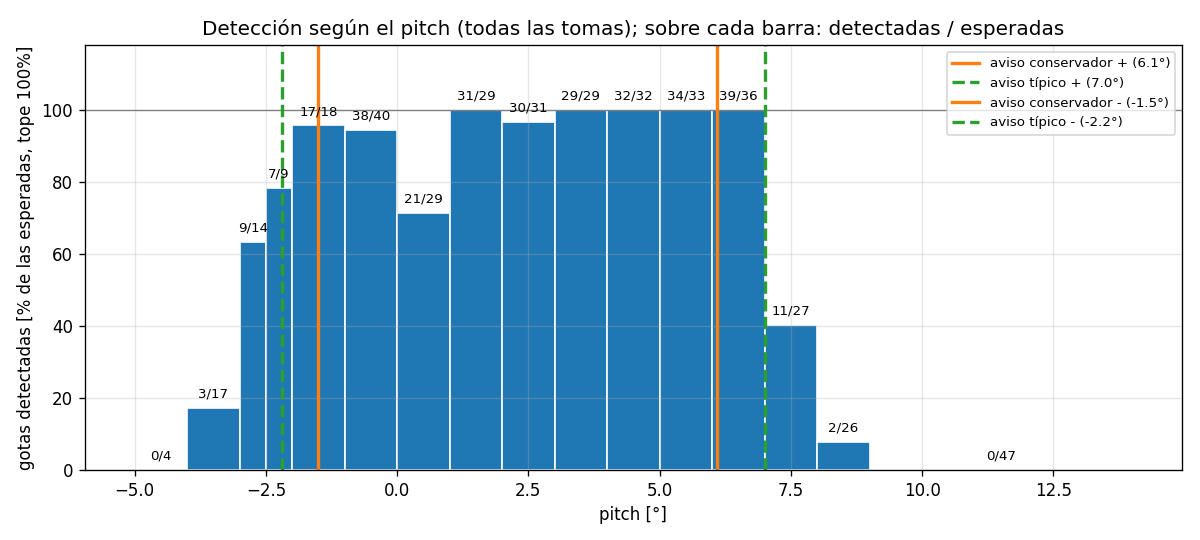
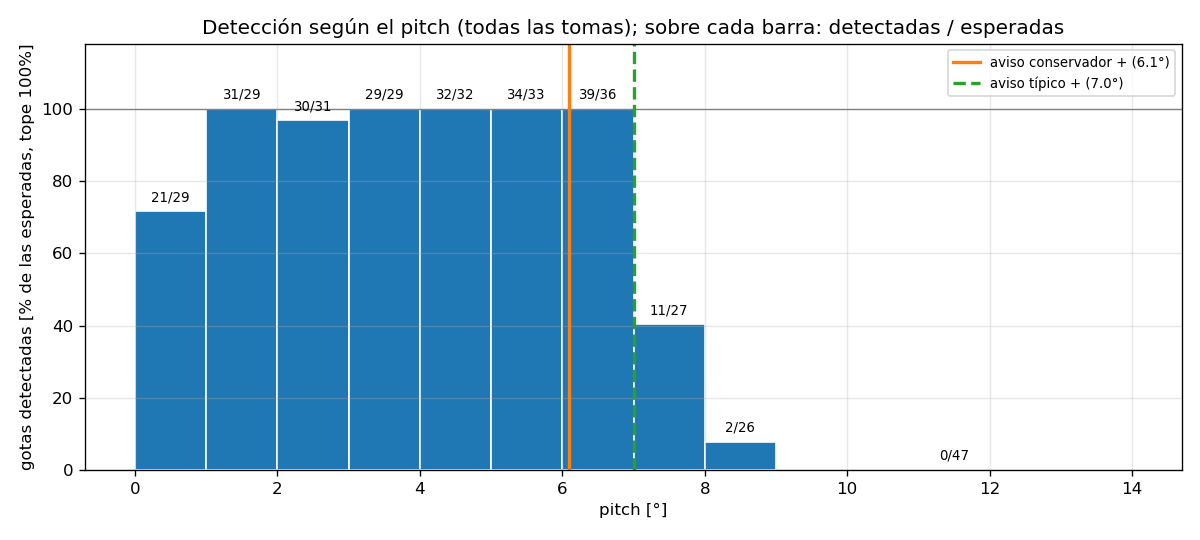
Correccion de los script de analisis

diff --git a/firmware/projects/analisis_bpw34/analizar_angulo_bpw34.py b/firmware/projects/analisis_bpw34/analizar_angulo_bpw34.py
@@ -39,15 +39,9 @@ import matplotlib.pyplot as plt
 # ------------------------------------------------------------------------------------------
 CARPETA = Path(r"C:\Users\Jose\OneDrive\Escritorio\Datos BPW34\Comparacion")
 TOMAS = {
-    # "Detecta y angulo.csv" quedó afuera: el goteo fue inestable (el clamp no sostuvo el flujo), así que la
-    # tasa de detección según el pitch no refleja el ángulo
-    # Las tomas 2 y 3 quedaron afuera: perdían la detección a ~3.5-3.9° del lado positivo, contra 6.6-7.6° en las tomas
-    # 4 y 5 (goteo regular). Con dos BPW34 de 7 mm² el área es mayor que la del OPT101 y tolerar más inclinación tiene sentido
-    # "Toma 2": CARPETA / "Detecion y angulo2.csv",
-    # "Toma 3": CARPETA / "Detecion y angulo3.csv",
     "Toma 4": CARPETA / "Detecion y angulo4.csv",     # goteo regular
     "Toma 5": CARPETA / "Detecion y angulo5.csv",     # goteo regular
-    "Toma 6": CARPETA / "Detecion y angulo6.csv",
+    "Toma 6": CARPETA / "Detecion y angulo6.csv",     # goteo regular
     # Agregar acá las tomas nuevas: "Toma 7": CARPETA / "Detecion y angulo7.csv",
 }
 
@@ -58,18 +52,21 @@ COL_PITCH = 3                # columna 4 del CSV
 
 VENTANA_MEDIANA = 5          # líneas del filtro de mediana del pitch (5 líneas ~ 50 ms): saca los picos aislados
 FACTOR_CORTE = 2.5           # un "corte" es un intervalo entre gotas mayor a FACTOR_CORTE x el período típico
+ANALIZAR_LADO_NEGATIVO = False  # por ahora se analiza solo el lado positivo: en teoría el negativo debería ser simétrico, pero no se
+                             # puede comprobar con el prototipo (se mide después con el acelerómetro nuevo). Con True se analiza
+                             # también (cortes, aviso y rangos de pitch negativos)
 PITCH_MIN_CORTE_ANGULO = 3.0 # un corte cuenta como "por ángulo" del lado positivo si el pitch llega al menos a esto durante el corte
-PITCH_MIN_CORTE_NEGATIVO = 2.0  # y del lado negativo si llega al menos a -esto. Los dos valores salen de mirar los gráficos: el lado
-                             # negativo empieza a fallar antes (~-2°) que el positivo, así que no pueden ser simétricos
+PITCH_MIN_CORTE_NEGATIVO = 2.0  # y del lado negativo (solo si ANALIZAR_LADO_NEGATIVO) si llega al menos a -esto
 PITCH_ARRANQUE_MIN = 1.0     # además, la última gota antes del corte tiene que estar ya inclinada al menos esto de ese lado
                              # (descarta cortes con el pitch cerca de 0°: ahí la causa es otra, ej. el arranque del goteo)
 SUBIDA_MIN_GRADOS = 0.2      # y el pitch tiene que irse al menos esto más allá del de la última gota
 MARGEN_AVISO_GRADOS = 0.5    # el aviso se pone esto antes (del lado del reposo) del ángulo de pérdida más cercano al reposo
 HISTERESIS_GRADOS = 0.5      # el aviso se apaga esto por debajo del ángulo en que se enciende
-EXCLUIR_CORTES = {           # cortes que no son por ángulo (ej. cortaste el flujo), por toma: {"Toma 1": [4]} (número de la tabla)
-    "Toma 2": [1],           # 8.0-13.3 s: sin gotas con el pitch en ~1° y gotas sueltas a 7-8° después; la causa no es el ángulo (goteo)
-}   # (esos cortes ya los descarta PITCH_ARRANQUE_MIN: la lista queda para casos que el criterio automático no resuelva)
-INTERVALOS_PITCH = [-5.0, -4.0, -3.0, -2.5, -2.0, -1.0, 0.0, 1.0, 2.0, 3.0, 4.0, 5.0, 6.0, 7.0, 8.0, 9.0, 14.0]   # rangos para la tasa de detección (incluye pitch negativo; el positivo llega más lejos, ~7-8° de pérdida)
+EXCLUIR_CORTES = {}          # cortes que no son por ángulo (ej. cortaste el flujo), por toma: {"Toma 4": [2]} (número de la tabla).
+                             # El arranque del goteo ya lo descarta PITCH_ARRANQUE_MIN: la lista queda para casos que el criterio no resuelva
+INTERVALOS_PITCH_NEGATIVO = [-5.0, -4.0, -3.0, -2.5, -2.0, -1.0]                                   # rangos de pitch negativo (solo si ANALIZAR_LADO_NEGATIVO)
+INTERVALOS_PITCH_POSITIVO = [0.0, 1.0, 2.0, 3.0, 4.0, 5.0, 6.0, 7.0, 8.0, 9.0, 14.0]                # rangos de pitch positivo para la tasa de detección
+INTERVALOS_PITCH = (INTERVALOS_PITCH_NEGATIVO if ANALIZAR_LADO_NEGATIVO else []) + INTERVALOS_PITCH_POSITIVO
 
 GUARDAR_PNG = True           # guarda los gráficos como PNG en esta carpeta
 SALIDA = Path(__file__).resolve().parent if "__file__" in globals() else Path.cwd()
@@ -150,7 +147,7 @@ for nombre, d in tomas.items():
         tramo = p[a:b + 1]
         sube = (tramo.max() >= PITCH_MIN_CORTE_ANGULO and p[a] >= PITCH_ARRANQUE_MIN
                 and tramo.max() - p[a] >= SUBIDA_MIN_GRADOS)
-        baja = (tramo.min() <= -PITCH_MIN_CORTE_NEGATIVO and p[a] <= -PITCH_ARRANQUE_MIN
+        baja = (ANALIZAR_LADO_NEGATIVO and tramo.min() <= -PITCH_MIN_CORTE_NEGATIVO and p[a] <= -PITCH_ARRANQUE_MIN
                 and p[a] - tramo.min() >= SUBIDA_MIN_GRADOS)
         lado = "+" if sube and not baja else "-" if baja and not sube else ""
         excluido = n in EXCLUIR_CORTES.get(nombre, [])
@@ -259,10 +256,12 @@ plt.show()
 # ------------------------------------------------------------------------------------------
 # Ángulo de pérdida de un corte "por ángulo": pitch de la última gota detectada antes del corte (el
 # pitch se aleja del reposo y deja de detectar). Ángulo de recuperación: pitch de la primera gota después.
-# Se analiza cada lado por separado: el positivo y el negativo no pierden a la misma inclinación.
+# Cada lado se analiza por separado (por ahora solo el positivo, ver ANALIZAR_LADO_NEGATIVO).
 avisos = {}   # lado -> (aviso conservador, aviso típico), para el gráfico
 for lado, nombre_lado in (("+", "POSITIVO"), ("-", "NEGATIVO")):
-    eventos = [(nombre, c) for nombre, d in tomas.items() for c in d["cortes"] if c["por_angulo"] and c["lado"] == lado]
+    if lado == "-" and not ANALIZAR_LADO_NEGATIVO:
+        continue
+    eventos =[(nombre, c) for nombre, d in tomas.items() for c in d["cortes"] if c["por_angulo"] and c["lado"] == lado]
     print(f"\n=== Lado {nombre_lado} ===")
     if not eventos:
         print("  Sin cortes por ángulo de este lado en las tomas cargadas.")
@@ -290,7 +289,7 @@ print("\nPitch en reposo (al principio y al final de cada toma; el 0° del MPU p
 for nombre, d in tomas.items():
     n = int(0.5 / DT_LINEA_S)
     print(f"  {nombre}: al inicio {np.median(d['pitch'][:n]):.1f}°, al final {np.median(d['pitch'][-n:]):.1f}°")
-print("OJO: son pocos cortes por lado y las tomas no dan el mismo ángulo de pérdida (ver el resumen por lado).")
+print("OJO: son pocos cortes por lado. Conviene sumar tomas con el mismo montaje y el mismo goteo.")
 
 
 # %%

diff --git a/firmware/projects/analisis_opt101/analizar_angulo.py b/firmware/projects/analisis_opt101/analizar_angulo.py
@@ -51,16 +51,21 @@ COL_PITCH = 3                # columna 4 del CSV
 
 VENTANA_MEDIANA = 5          # líneas del filtro de mediana del pitch (5 líneas ~ 50 ms): saca los picos aislados
 FACTOR_CORTE = 2.5           # un "corte" es un intervalo entre gotas mayor a FACTOR_CORTE x el período típico
+ANALIZAR_LADO_NEGATIVO = False  # por ahora se analiza solo el lado positivo: en teoría el negativo debería ser simétrico, pero no se
+                             # puede comprobar con el prototipo (se mide después con el acelerómetro nuevo). Con True se analiza
+                             # también (cortes, aviso y rangos de pitch negativos)
 PITCH_MIN_CORTE_ANGULO = 3.0 # un corte cuenta como "por ángulo" del lado positivo si el pitch llega al menos a esto durante el corte
-PITCH_MIN_CORTE_NEGATIVO = 2.0  # y del lado negativo si llega al menos a -esto. Los dos valores salen de mirar los gráficos del BPW34
-                             # (el lado negativo empieza a fallar antes que el positivo). Con el OPT101 todavía no hay tomas con pitch negativo
+PITCH_MIN_CORTE_NEGATIVO = 2.0  # y del lado negativo (solo si ANALIZAR_LADO_NEGATIVO) si llega al menos a -esto
 PITCH_ARRANQUE_MIN = 1.0     # además, la última gota antes del corte tiene que estar ya inclinada al menos esto de ese lado
                              # (descarta cortes con el pitch cerca de 0°: ahí la causa es otra, ej. el arranque del goteo)
 SUBIDA_MIN_GRADOS = 0.2      # y el pitch tiene que irse al menos esto más allá del de la última gota
 MARGEN_AVISO_GRADOS = 0.5    # el aviso se pone esto antes (del lado del reposo) del ángulo de pérdida más cercano al reposo
 HISTERESIS_GRADOS = 0.5      # el aviso se apaga esto por debajo del ángulo en que se enciende
-EXCLUIR_CORTES = {}          # cortes que no son por ángulo (ej. cortaste el flujo), por toma: {"Toma 1": [4]} (número de la tabla)
-INTERVALOS_PITCH = [-5.0, -4.0, -3.0, -2.5, -2.0, -1.0, 0.0, 1.0, 2.0, 3.0, 4.0, 5.0, 6.0, 7.0, 8.0, 9.0, 14.0]   # rangos para la tasa de detección (incluye pitch negativo por si hay tomas hacia ese lado)
+EXCLUIR_CORTES = {}          # cortes que no son por ángulo (ej. cortaste el flujo), por toma: {"Toma 4": [2]} (número de la tabla).
+                             # El arranque del goteo ya lo descarta PITCH_ARRANQUE_MIN: la lista queda para casos que el criterio no resuelva
+INTERVALOS_PITCH_NEGATIVO = [-5.0, -4.0, -3.0, -2.5, -2.0, -1.0]                                   # rangos de pitch negativo (solo si ANALIZAR_LADO_NEGATIVO)
+INTERVALOS_PITCH_POSITIVO = [0.0, 1.0, 2.0, 3.0, 4.0, 5.0, 6.0, 7.0, 8.0, 9.0, 14.0]                # rangos de pitch positivo para la tasa de detección
+INTERVALOS_PITCH = (INTERVALOS_PITCH_NEGATIVO if ANALIZAR_LADO_NEGATIVO else []) + INTERVALOS_PITCH_POSITIVO
 
 GUARDAR_PNG = True           # guarda los gráficos como PNG en esta carpeta
 SALIDA = Path(__file__).resolve().parent if "__file__" in globals() else Path.cwd()
@@ -141,7 +146,7 @@ for nombre, d in tomas.items():
         tramo = p[a:b + 1]
         sube = (tramo.max() >= PITCH_MIN_CORTE_ANGULO and p[a] >= PITCH_ARRANQUE_MIN
                 and tramo.max() - p[a] >= SUBIDA_MIN_GRADOS)
-        baja = (tramo.min() <= -PITCH_MIN_CORTE_NEGATIVO and p[a] <= -PITCH_ARRANQUE_MIN
+        baja = (ANALIZAR_LADO_NEGATIVO and tramo.min() <= -PITCH_MIN_CORTE_NEGATIVO and p[a] <= -PITCH_ARRANQUE_MIN
                 and p[a] - tramo.min() >= SUBIDA_MIN_GRADOS)
         lado = "+" if sube and not baja else "-" if baja and not sube else ""
         excluido = n in EXCLUIR_CORTES.get(nombre, [])
@@ -250,10 +255,12 @@ plt.show()
 # ------------------------------------------------------------------------------------------
 # Ángulo de pérdida de un corte "por ángulo": pitch de la última gota detectada antes del corte (el
 # pitch se aleja del reposo y deja de detectar). Ángulo de recuperación: pitch de la primera gota después.
-# Se analiza cada lado por separado: el positivo y el negativo no pierden a la misma inclinación.
+# Cada lado se analiza por separado (por ahora solo el positivo, ver ANALIZAR_LADO_NEGATIVO).
 avisos = {}   # lado -> (aviso conservador, aviso típico), para el gráfico
 for lado, nombre_lado in (("+", "POSITIVO"), ("-", "NEGATIVO")):
-    eventos = [(nombre, c) for nombre, d in tomas.items() for c in d["cortes"] if c["por_angulo"] and c["lado"] == lado]
+    if lado == "-" and not ANALIZAR_LADO_NEGATIVO:
+        continue
+    eventos =[(nombre, c) for nombre, d in tomas.items() for c in d["cortes"] if c["por_angulo"] and c["lado"] == lado]
     print(f"\n=== Lado {nombre_lado} ===")
     if not eventos:
         print("  Sin cortes por ángulo de este lado en las tomas cargadas.")
@@ -281,7 +288,7 @@ print("\nPitch en reposo (al principio y al final de cada toma; el 0° del MPU p
 for nombre, d in tomas.items():
     n = int(0.5 / DT_LINEA_S)
     print(f"  {nombre}: al inicio {np.median(d['pitch'][:n]):.1f}°, al final {np.median(d['pitch'][-n:]):.1f}°")
-print("OJO: son pocos cortes por lado y las tomas no dan el mismo ángulo de pérdida (ver el resumen por lado).")
+print("OJO: son pocos cortes por lado. Conviene sumar tomas con el mismo montaje y el mismo goteo.")
 
 
 # %%
